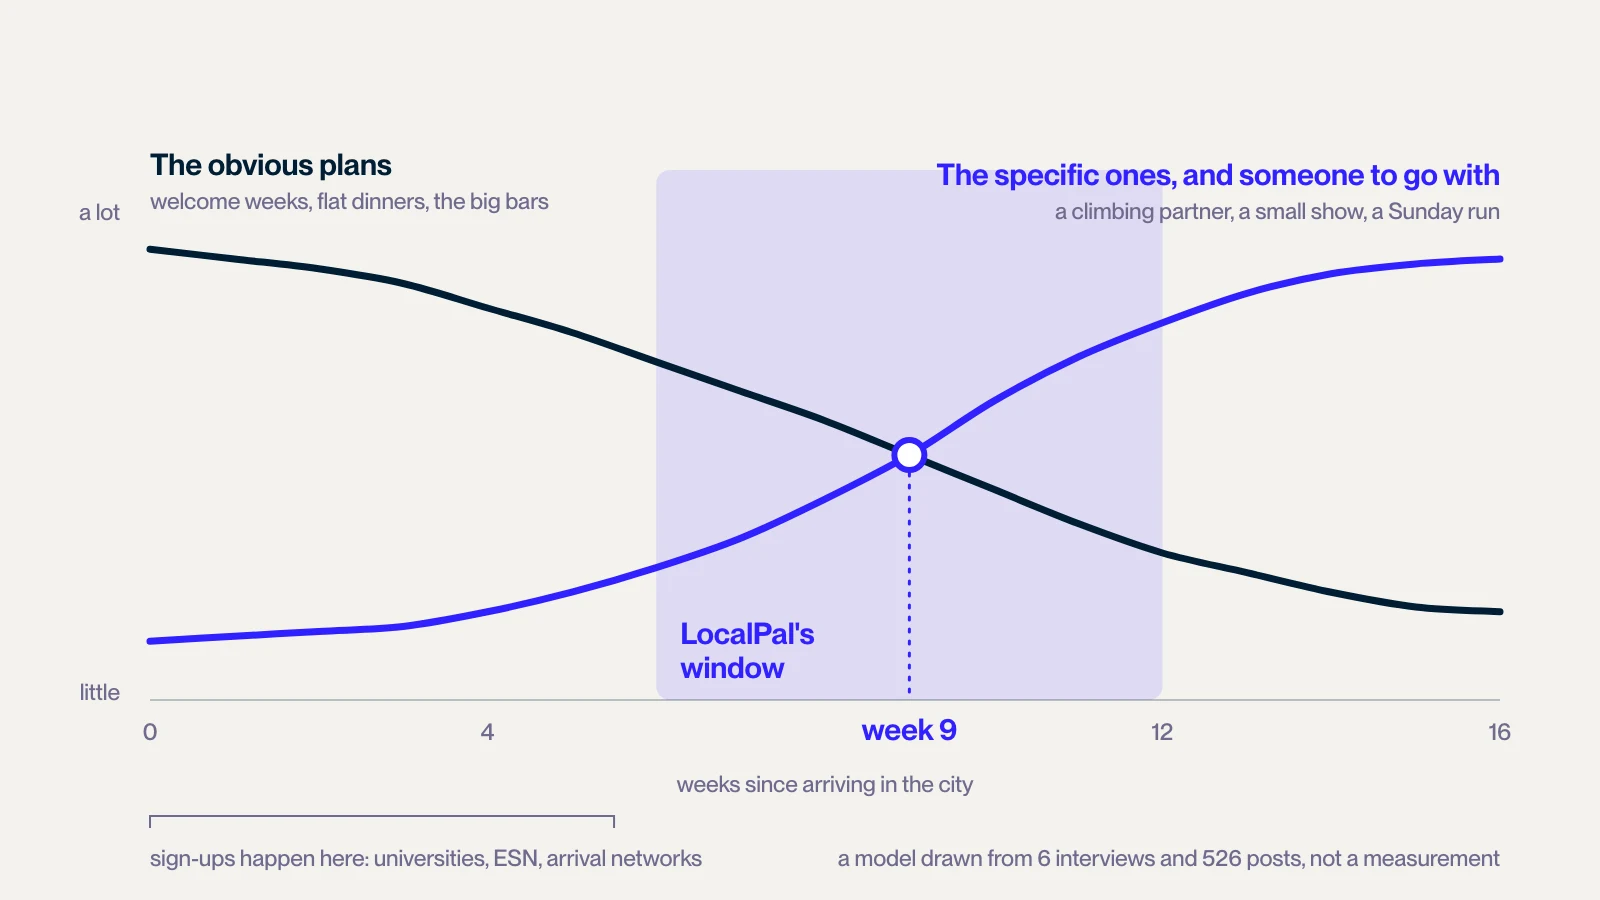
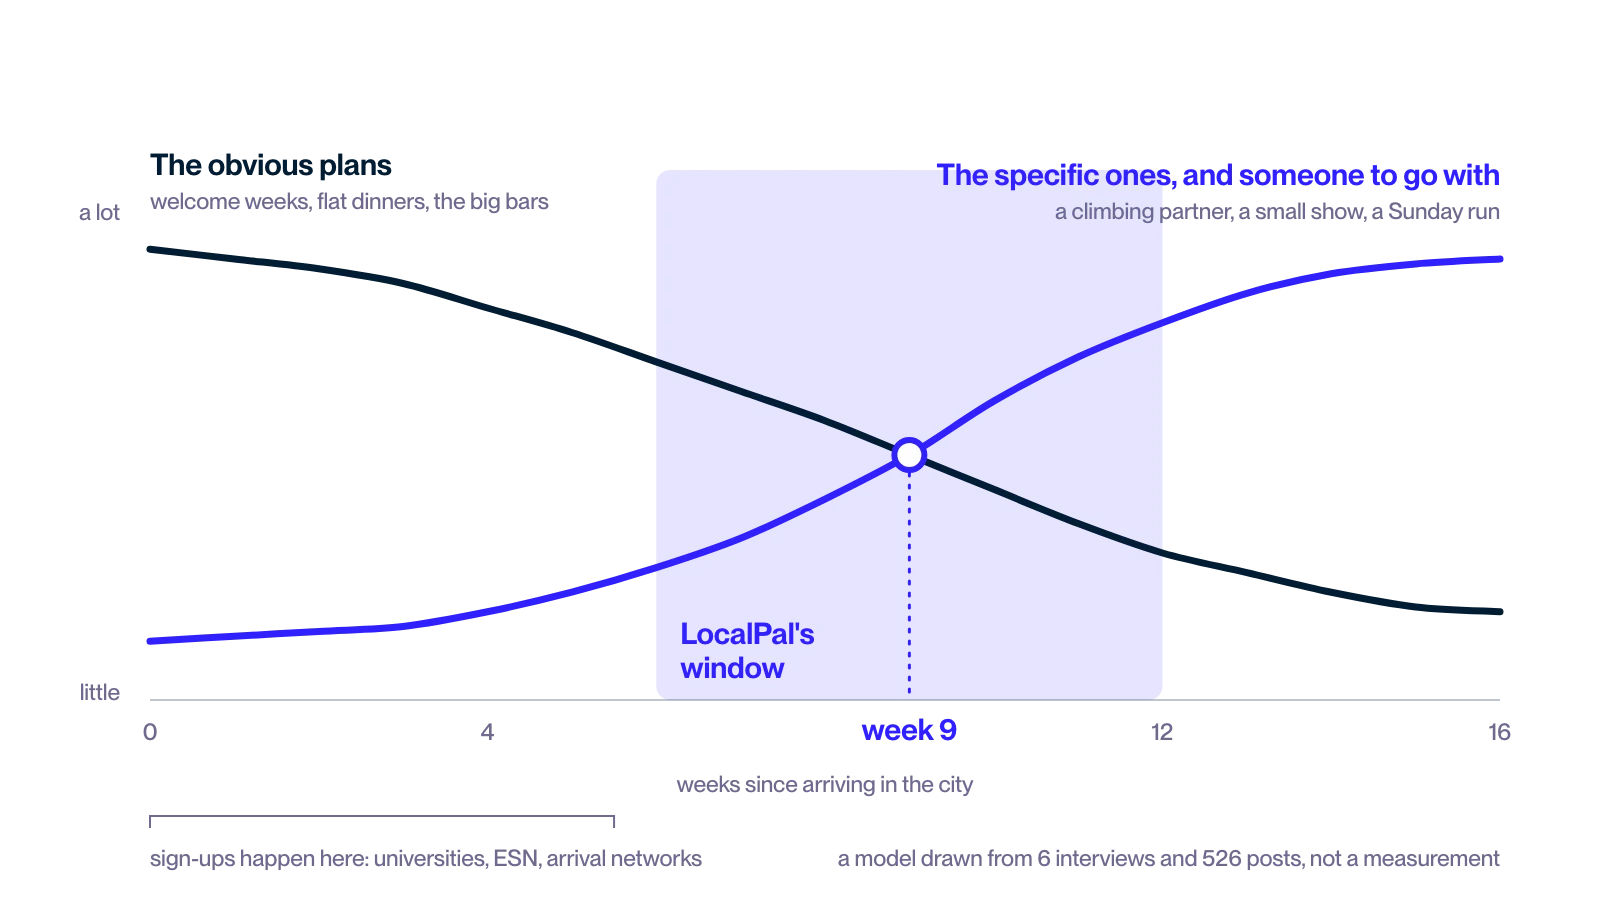
Project pages: anything with its own edge sits on the paper
After the phones (Julio): the field's devices stand on the paper with
their tag; the storyboard (from its vectors), the brand sample and the
first moodboard keep their transparency, no white box; the redrawn
figures render on transparency and show without a grey box; Convertr's
drop and GIF strips are the app's own screen, no cell behind them.
Recorded components keep their ground: a video has no transparency.

diff --git a/apps/web/src/content/projects/localpal.ts b/apps/web/src/content/projects/localpal.ts
@@ -54,6 +54,12 @@ const bare = (
   alt: string,
 ): Cell => cell(w, h, lp(name, "bare", alt, { aspect }), ground);
 
+/** A picture with its own edge (on transparency): no cell, on the paper. */
+const drawing = (w: number, h: number, name: string, aspect: number, alt: string): Cell => ({
+  ...cell(w, h, lp(name, "bare", alt, { aspect, still: true, fit: "contain" })),
+  plain: true,
+});
+
 /** One of the drawn figures, or a picture from the thesis. */
 const pic = (w: number, h: number, name: string, aspect: number, alt: string, ground?: string): Cell =>
   cell(w, h, lp(name, "bare", alt, { aspect, still: true, ...(ground ? { fit: "contain" as const } : {}) }), ground);
@@ -116,6 +122,7 @@ export const localpal: Project = {
           figure: {
             kind: "image",
             src: `${M}/fig-moment.webp`,
+            plain: true,
             aspect: 16 / 9,
             alt: "Four numbers: 35% of Europeans feel lonely at least some of the time; UK nightclubs down 37% in four years; 71.6 million gym members in Europe in 2024, a record; running clubs on Strava up 59% in 2024.",
           },
@@ -129,6 +136,7 @@ export const localpal: Project = {
           figure: {
             kind: "image",
             src: `${M}/fig-platforms.webp`,
+            plain: true,
             aspect: 4 / 3,
             alt: "Five platforms that tried, scored 0 to 5 on niche plans, anyone can propose, and trust and safety. Each gets one or two of the three; none gets all of them.",
           },
@@ -170,6 +178,7 @@ export const localpal: Project = {
           figure: {
             kind: "image",
             src: `${M}/fig-relevance-curve.webp`,
+            plain: true,
             aspect: 16 / 9,
             alt: "The relevance curve: over sixteen weeks after arriving, the obvious plans fall and the specific ones rise; they cross at week nine, inside LocalPal's window from week six to twelve. Sign-ups happen in the first five weeks, through universities and ESN.",
           },
@@ -223,9 +232,9 @@ export const localpal: Project = {
           type: "bento",
           row: 1,
           cells: [
-            { ...pic(4, 4, "storyboard-1", 1400 / 1233, "Marco dancing alone to music in his room.", "#ffffff"), label: "Wants to do something" },
-            { ...pic(4, 4, "storyboard-4", 1400 / 1287, "A shrug under a cloud of question marks.", "#ffffff"), label: "Can't pin it down" },
-            { ...pic(4, 4, "storyboard-5", 1400 / 782, "Three people sitting together with drinks: the plan happened.", "#ffffff"), label: "With LocalPal, he goes" },
+            { ...drawing(4, 4, "storyboard-1", 1400 / 1233, "Marco dancing alone to music in his room."), label: "Wants to do something" },
+            { ...drawing(4, 4, "storyboard-4", 1400 / 1287, "A shrug under a cloud of question marks."), label: "Can't pin it down" },
+            { ...drawing(4, 4, "storyboard-5", 1400 / 782, "Three people sitting together with drinks: the plan happened."), label: "With LocalPal, he goes" },
           ],
         },
         {
@@ -233,6 +242,7 @@ export const localpal: Project = {
           figure: {
             kind: "image",
             src: `${M}/fig-journey.webp`,
+            plain: true,
             aspect: 16 / 9,
             alt: "The same six steps, from feeling like doing something to going: today the line ends at its lowest, the plan dies in the chat; the LocalPal line, dashed because it's designed for and untested, ends at the top.",
           },
@@ -253,9 +263,9 @@ export const localpal: Project = {
           type: "bento",
           row: 1,
           cells: [
-            pic(5, 8, "brand-sample", 972 / 1501, "The brand sample: a portrait with the LocalPal sticker and the line, map stickers, the mark on blue, the type."),
+            drawing(5, 8, "brand-sample", 972 / 1501, "The brand sample: a portrait with the LocalPal sticker and the line, map stickers, the mark on blue, the type."),
             pic(7, 5, "fig-brand-type", 4 / 3, "“Stop scrolling. Start showing up.” set in PP Neue Montreal on the blue."),
-            { ...pic(7, 3, "moodboard", 1600 / 886, "The first moodboard, darker and more angular than where the brand ended up.", "#fefefe"), label: "First direction, dropped" },
+            { ...drawing(7, 3, "moodboard", 1600 / 886, "The first moodboard, darker and more angular than where the brand ended up."), label: "First direction, dropped" },
           ],
         },
         {
@@ -266,7 +276,7 @@ export const localpal: Project = {
           type: "bento",
           row: 1,
           cells: [
-            pic(12, 6, "fig-brand-colours", 16 / 9, "The colours: the brand blue, its deep and pressed shades, lavender and ink; and the map, inverted: land, water, park, road.", "#f4f2ee"),
+            drawing(12, 7, "fig-brand-colours", 16 / 9, "The colours: the brand blue, its deep and pressed shades, lavender and ink; and the map, inverted: land, water, park, road."),
           ],
         },
       ],

diff --git a/apps/web/src/components/work/Bento.tsx b/apps/web/src/components/work/Bento.tsx
@@ -23,7 +23,9 @@ import type { Cell, Shot } from "@/content/projects";
  * - A phone is drawn here, not recorded: the clip is the screen alone,
  *   so every phone on the site is the same phone. In a bento it sits
  *   straight on the paper — the phone is its own frame, so its cell has
- *   no ground (Julio, 2026-10-01). The phone is a size
+ *   no ground (Julio, 2026-10-01). The same for anything with an edge of
+ *   its own (`plain`), and for a field: its devices stand on the paper,
+ *   the tag under them marking the mockup to come. The phone is a size
  *   container and its bezel a child, so the bezel's cqw are the phone's.
  */
 
@@ -34,7 +36,7 @@ export const BENTO_CSS = `
 .bn-cell { position: relative; grid-column: span var(--bn-w); grid-row: span var(--bn-h); overflow: hidden; border-radius: calc(.5 * var(--ty-u)); background: var(--bn-ground, #ecebe8); }
 .bn-cell > video, .bn-cell > img { position: absolute; inset: 0; display: block; width: 100%; height: 100%; object-fit: cover; }
 .bn-cell.is-screen { box-shadow: inset 0 0 0 1px rgba(43, 39, 34, .08); }
-.bn-cell.is-phone { background: none; overflow: visible; }
+.bn-cell.is-phone, .bn-cell.is-plain { background: none; overflow: visible; border-radius: 0; box-shadow: none; }
 .bn-cell.is-phone .bn-phone { height: 100%; max-width: 100%; }
 .bn-center { position: absolute; inset: 0; display: grid; place-items: center; }
 @container (max-width: 520px) {
@@ -52,7 +54,7 @@ export const BENTO_CSS = `
 .bn-mark { position: absolute; left: calc(.75 * var(--ty-u)); bottom: calc(.75 * var(--ty-u)); right: calc(.75 * var(--ty-u)); }
 .bn-mark span { display: inline-block; padding: .35em .6em; border: 1px dashed rgba(43, 39, 34, .35); border-radius: 6px; background: rgba(255, 255, 255, .7); backdrop-filter: blur(6px); }
 
-.bn-field { position: relative; overflow: hidden; border-radius: calc(.5 * var(--ty-u)); background: var(--bn-ground); }
+.bn-field { position: relative; }
 .bn-field-row { position: absolute; inset: 8% 6% 16%; display: flex; justify-content: center; align-items: center; gap: 4%; }
 .bn-field-row .bn-phone { height: 100%; max-width: none; }
 .bn-laptop { height: 100%; aspect-ratio: var(--bn-sa); max-width: 100%; padding: .6%; border-radius: 10px 10px 4px 4px; background: #16130f; box-shadow: 0 18px 40px -16px rgba(43,39,34,.45); }
@@ -91,11 +93,13 @@ export function Bento({ cells, row = 2 }: { cells: Cell[]; row?: number }) {
           <Reveal
             key={i}
             delay={i * 50}
-            className={
-              cell.kind === "shot" && cell.frame !== "bare"
-                ? `bn-cell is-${cell.frame}`
-                : "bn-cell"
-            }
+            className={[
+              "bn-cell",
+              cell.kind === "shot" && cell.frame !== "bare" && `is-${cell.frame}`,
+              cell.plain && "is-plain",
+            ]
+              .filter(Boolean)
+              .join(" ")}
             style={
               {
                 "--bn-w": cell.w,

diff --git a/apps/web/src/content/projects/convertr.ts b/apps/web/src/content/projects/convertr.ts
@@ -18,9 +18,9 @@ function cv(name: string, alt: string, aspect: number, more: Partial<Shot> = {})
   return { src: `${M}/${name}.mp4`, poster: `${M}/${name}.webp`, frame: "screen", alt, aspect, ...more };
 }
 const cell = (w: number, h: number, shot: Shot, ground?: string): Cell => ({ kind: "shot", w, h, ground, ...shot });
+/** An app recording with its own screen as its edge: no cell around it. */
+const plain = (c: Cell): Cell => ({ ...c, plain: true });
 
-/** The app's own paper, behind a recording fitted whole into its cell. */
-const PAPER = "#f6f6f4";
 
 export const convertr: Project = {
   slug: "convertr",
@@ -75,7 +75,7 @@ export const convertr: Project = {
           type: "bento",
           row: 1,
           cells: [
-            cell(12, 6, cv("drop", "A file carried in and dropped on the empty box; a row of bricks loads it, and the box snaps to the video's own shape", 1100 / 826, { frame: "bare", fit: "contain" }), PAPER),
+            plain(cell(12, 6, cv("drop", "A file carried in and dropped on the empty box; a row of bricks loads it, and the box snaps to the video's own shape", 1100 / 826, { frame: "bare", fit: "contain" }))),
           ],
         },
         {
@@ -87,6 +87,7 @@ export const convertr: Project = {
           figure: {
             kind: "image",
             src: `${M}/fig-compare.webp`,
+            plain: true,
             aspect: 2000 / 900,
             minWidth: 640,
             alt: "The same vertical video in a typical converter, shrunk into a preview between fixed panels, and in Convertr, where the box is the video and the settings take its other side.",
@@ -185,7 +186,7 @@ export const convertr: Project = {
           row: 0.5,
           cells: [
             cell(12, 3, cv("trim", "The in handle dragged right and the out handle left on the timeline", 8, { frame: "bare" })),
-            cell(12, 2, cv("gif", "The GIF's width dragged from 640 to 1252 pixels and back; the expected size on the video follows", 1600 / 88, { frame: "bare", fit: "contain" }), PAPER),
+            plain(cell(12, 2, cv("gif", "The GIF's width dragged from 640 to 1252 pixels and back; the expected size on the video follows", 1600 / 88, { frame: "bare", fit: "contain" }))),
             cell(6, 7, cv("format", "The format picker opening, the cursor running down the list, GIF picked", 1200 / 660, { frame: "bare" })),
             {
               kind: "slot",

diff --git a/apps/web/src/components/work/CaseStudy.tsx b/apps/web/src/components/work/CaseStudy.tsx
@@ -160,6 +160,7 @@ const CSS = `
 .cs-figs { display: grid; grid-template-columns: repeat(auto-fit, minmax(min(100%, 220px), 1fr)); gap: calc(.5 * var(--ty-u)); align-items: start; }
 .cs-figs.is-tall { grid-template-columns: repeat(auto-fit, minmax(min(100%, 160px), 1fr)); }
 .cs-media { position: relative; width: 100%; overflow: hidden; border-radius: calc(.5 * var(--ty-u)); background: ${GREY}; }
+.cs-media.is-plain { background: none; border-radius: 0; overflow: visible; }
 .cs-media img, .cs-media video { display: block; width: 100%; height: 100%; object-fit: cover; }
 .cs-media video { background: #000; }
 .cs-scroll { overflow-x: auto; scrollbar-width: none; }
@@ -581,7 +582,10 @@ function FigureView({ figure }: { figure: Figure }) {
       );
     case "image": {
       const media = (
-        <div className="cs-media" style={{ aspectRatio: figure.aspect }}>
+        <div
+          className={figure.plain ? "cs-media is-plain" : "cs-media"}
+          style={{ aspectRatio: figure.aspect }}
+        >
           {/* Plain <img>: the static export has no image optimizer, and
               every public/ path goes through asset() for the basePath.
               Lazy, or React preloads it in the page head (the budget). */}

diff --git a/apps/web/src/content/projects/types.ts b/apps/web/src/content/projects/types.ts
@@ -34,6 +34,8 @@ export type Figure =
       /** A chart too fine to shrink: below this width (px) it keeps the
        *  width and scrolls sideways instead. */
       minWidth?: number;
+      /** On transparency, with edges of its own: no box behind it. */
+      plain?: boolean;
     }
   | {
       kind: "video";
@@ -119,6 +121,9 @@ export type Cell = {
   /** A small label in the cell's corner: what this one shows, where the
    *  cells only make sense named (Board / Still / Shot). */
   label?: string;
+  /** No cell at all: the picture already has its own edge (a drawing on
+   *  transparency, an app's own screen), so it sits on the paper. */
+  plain?: boolean;
 } & (
   | ({ kind: "shot" } & Shot)
   | { kind: "slot"; need: string; awaits?: "video" | "photo" }
